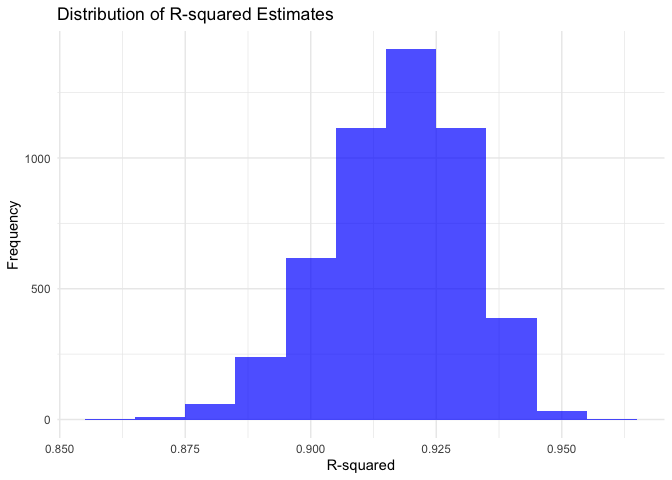
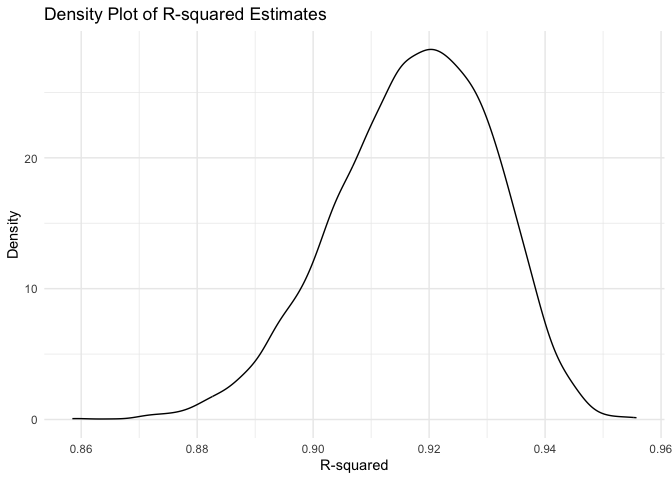
change histograms into density plots in problem two

diff --git a/homework-6.md b/homework-6.md
@@ -168,10 +168,10 @@ bootstrap_results = boot(data = weather_df, statistic = bootstrap_function, R = 
 r_squared_dist = bootstrap_results$t[,1]
 log_product_dist = bootstrap_results$t[,2]
 
-# Plotting the distributions
+# Plotting the distributions as density plots
 ggplot() +
-  geom_histogram(aes(x = r_squared_dist), binwidth = 0.01, fill = "blue", alpha = 0.7) +
-  labs(title = "Distribution of R-squared Estimates", x = "R-squared", y = "Frequency") +
+  geom_density(aes(x = r_squared_dist), alpha = 0.7) +
+  labs(title = "Density Plot of R-squared Estimates", x = "R-squared", y = "Density") +
   theme_minimal()
 ```
 
@@ -179,8 +179,8 @@ ggplot() +
 
 ``` r
 ggplot() +
-  geom_histogram(aes(x = log_product_dist), binwidth = 0.1, fill = "red", alpha = 0.7) +
-  labs(title = "Distribution of Log(Beta1 * Beta2) Estimates", x = "Log(Beta1 * Beta2)", y = "Frequency") +
+  geom_density(aes(x = log_product_dist),  alpha = 0.7) +
+  labs(title = "Density Plot of Log(Beta1 * Beta2) Estimates", x = "Log(Beta1 * Beta2)", y = "Density") +
   theme_minimal()
 ```
 
